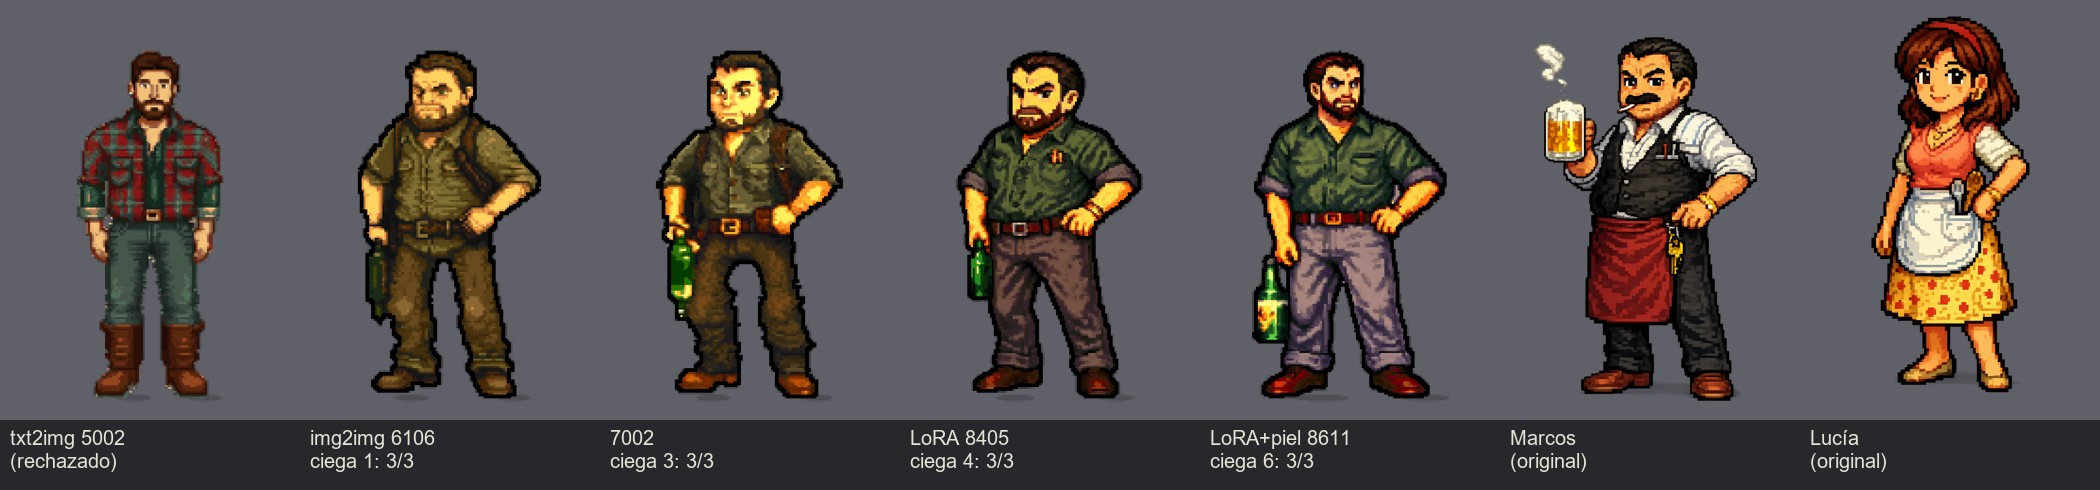
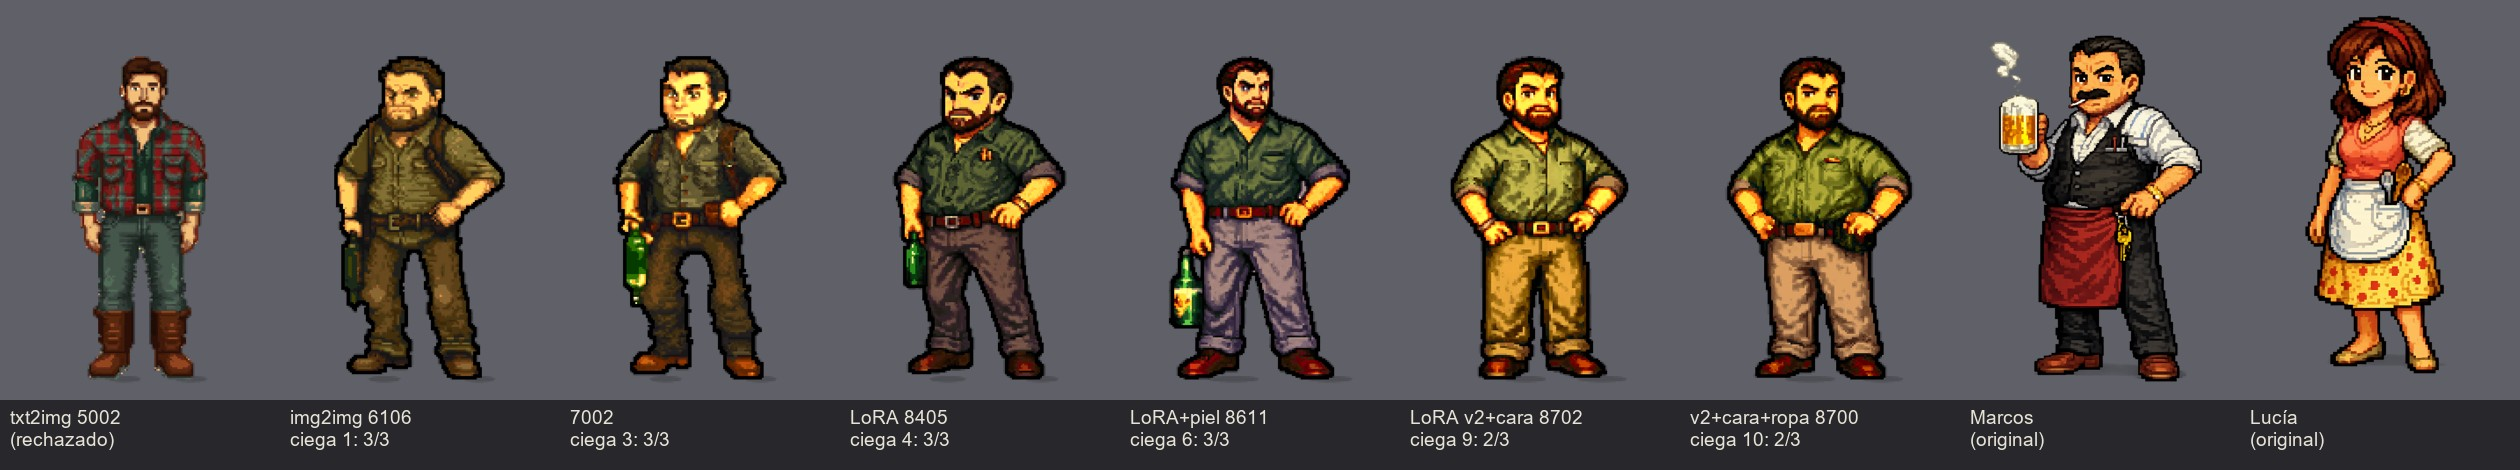
Extra Javier work after block 3: LoRA v2 with face crops + face detailer + bigger head reach 2/3 in two blind rounds (first misses of the session); still not passing, nothing integrated; evolution sheet and NIGHT-LOG
Claude-Session: https://claude.ai/code/session_01KEoVtmbGPQRPnhweMQeCc5

diff --git a/docs/NIGHT-LOG.md b/docs/NIGHT-LOG.md
@@ -897,3 +897,15 @@ retratos → 4 gráficos.
 - **19:47** Suites de la rama en su estado final: EditMode 754/755 (el que falta es el banco, Explicit), 0 fallos;
   PlayMode 64 pasan, 0 fallos. **La suite PlayMode carga qwen en Ollama** (confirmado: estaba cargado al acabar):
   esa fue la causa de mi error de las 16:50. Descargado con `ollama stop`.
+- **19:50-20:34 Trabajo extra tras el bloque 3 (Javier; no reabre el bloque 1, que sigue cerrado sin aprobar).**
+  LoRA v2 (`C:\AI\lora\jvstyle2`): las 6 figuras + recortes de cabeza ampliados de los originales, 1 200 pasos
+  (`lora_dataset.py --caras`, test). `facefix.py` (pegado con test): repinta solo la cabeza a 1024 con el LoRA v2.
+  `--head-ratio` en generate.py. Pruebas ciegas:
+  · 8: 8611 + cara → 3/3, confianzas media/baja/baja-media; nuevo motivo común: "cabeza pequeña, ~1/7".
+  · 9: 8702 (v2, cabeza 0,24, cara) → **2/3** (la 604 elige a Álex). Parecido: "personas distintas", alta.
+  · 10: 8700 (v2, cara, ropa aplanada fuera de la cabeza) → **2/3** (la 701 elige a Álex y agrupa a Javier con
+    Marcos y Lucía). Motivo común nuevo: "contorno negro grueso y uniforme" frente al contorno coloreado.
+  · 11: el mismo sin el contorno reforzado → 3/3 ("borde blando, borroso"): el contorno ayuda; lo que falta es
+    colorearlo como los originales (selout).
+- **20:34 Paro el trabajo extra.** Total: 11 rondas, 31 de 33 señalan al generado. Mejor: rondas 9 y 10 (2 de 3).
+  No aprueba; nada se integra. Hoja actualizada: `docs/art/javier/evolucion_sesion_b.jpg`.
